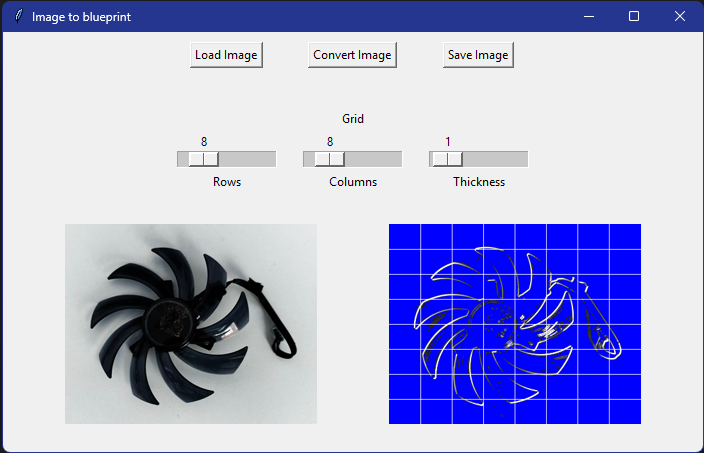
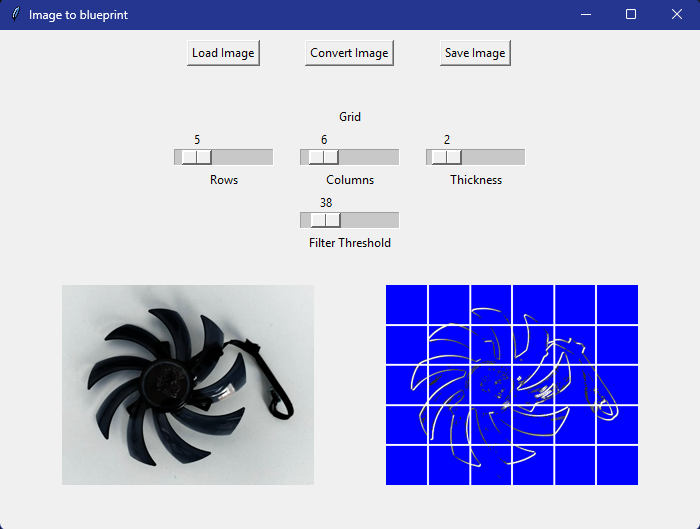
Add files via upload

diff --git a/blueprint.py b/blueprint.py
@@ -36,7 +36,7 @@ def conv_image():
     converted_img = cv2.convertScaleAbs(converted_img)
 
     #turn black to blue
-    mask = cv2.inRange(converted_img, 0,60)
+    mask = cv2.inRange(converted_img, 0,slider_threshold.get())
     converted_img= cv2.cvtColor(converted_img, cv2.COLOR_GRAY2BGR)
     converted_img[mask > 0] = [255, 0, 0]
 
@@ -80,7 +80,7 @@ def save_image():
 
 root = Tk()
 root.title("Image to blueprint")
-root.geometry("700x420")
+root.geometry("700x500")
 
 
 
@@ -117,6 +117,11 @@ col_label=tk.Label(button_frame,text="Columns")
 col_label.grid(row=3, column=1, padx=10)
 thk_label=tk.Label(button_frame,text="Thickness")
 thk_label.grid(row=3, column=2, padx=10)
+
+slider_threshold = tk.Scale(button_frame, from_=0, to=255, orient=tk.HORIZONTAL)
+slider_threshold.grid(row=4, column=1, padx=10)
+thk_label=tk.Label(button_frame,text="Filter Threshold")
+thk_label.grid(row=5, column=1, padx=10)
 
 
 #images
